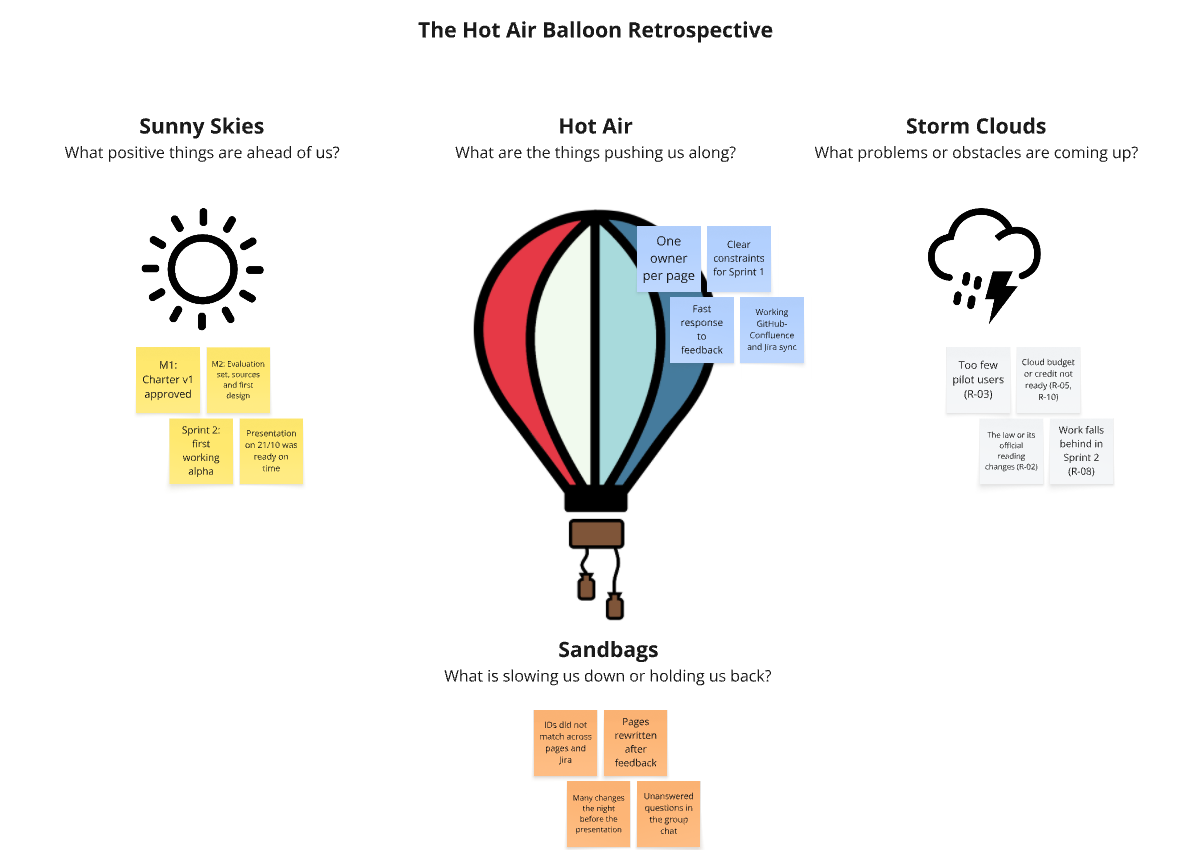
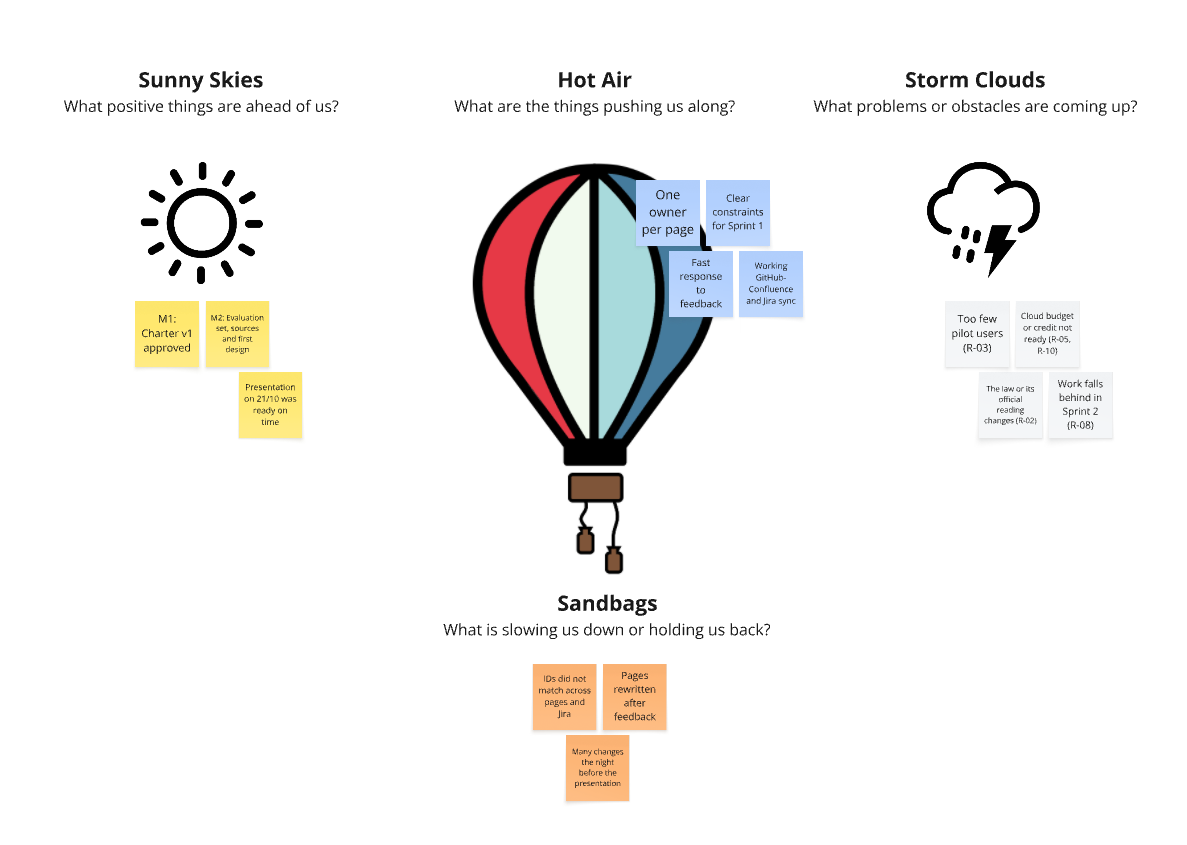
Sprint 1 retro: remove two items from Hot Air Balloon board and table
Claude-Session: https://claude.ai/code/session_011F2u2YthuTeJB4vLanfkvy

diff --git a/Markdown Template/04-sprint-1/02-sprint-1-retrospective.md b/Markdown Template/04-sprint-1/02-sprint-1-retrospective.md
@@ -26,8 +26,8 @@ We also looked at Sprint 1 with the Hot Air Balloon retrospective on our [Miro b
 |---|---|---|---|
 | M1: Charter v1 approved | One owner per page | Too few pilot users (R-03) | IDs did not match across pages and Jira |
 | M2: Evaluation set, sources and first design | Clear constraints for Sprint 1 | Cloud budget or credit not ready (R-05, R-10) | Pages rewritten after feedback |
-| Sprint 2: first working alpha | Fast response to feedback | The law or its official reading changes (R-02) | Many changes the night before the presentation |
-| Presentation on 21/10 was ready on time | Working GitHub–Confluence and Jira sync | Work falls behind in Sprint 2 (R-08) | Unanswered questions in the group chat |
+| Presentation on 21/10 was ready on time | Fast response to feedback | The law or its official reading changes (R-02) | Many changes the night before the presentation |
+| | Working GitHub–Confluence and Jira sync | Work falls behind in Sprint 2 (R-08) | |
 
 ## Commitments check
 
